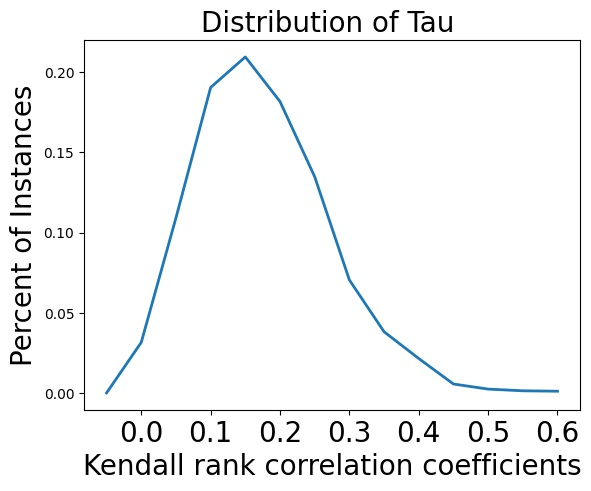
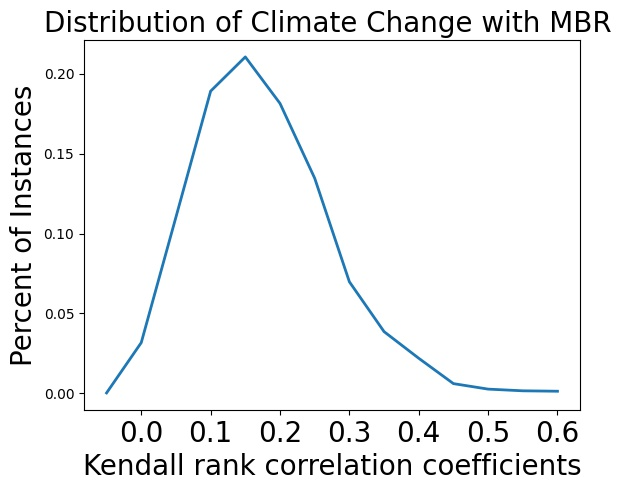
result

Changed region(s): [[0.0, 0.0, 1.0, 0.9776], [0.0, 0.4582, 0.0609, 0.5499], [0.0, 0.5499, 0.0305, 0.5804]]

diff --git a/program/run_function.py b/program/run_function.py
@@ -252,23 +252,7 @@ def label_score_analysis(
     ground_truth: str
 ) -> Dict:
     data_map = BaselineArticleMap()
-<<<<<<< HEAD
-    ground_truth_distance_matrix = np.zeros(shape=(len(data_map.dataset_bias),len(data_map.dataset_bias)),dtype=np.float32)
-    bias_distance_matrix = np.zeros(shape=(len(data_map.dataset_bias),len(data_map.dataset_bias)))
-    allsides_distance_order_matrix = np.zeros(shape=(len(data_map.dataset_bias),len(data_map.dataset_bias)),dtype=np.int)
-    for i,media_a in enumerate(data_map.dataset_list):
-        temp_distance = list()
-        for j,media_b in enumerate(data_map.dataset_list):
-            bias_distance_matrix[i][j] = abs(data_map.dataset_bias[media_a] - data_map.dataset_bias[media_b])
-            temp_distance.append(abs(data_map.dataset_bias[media_a] - data_map.dataset_bias[media_b]))
-            ground_truth_distance_matrix[i][j] = abs(data_map.dataset_bias[media_a] - data_map.dataset_bias[media_b])
-        distance_set = set(temp_distance)
-        distance_set = sorted(list(distance_set))
-        for o, d_o in enumerate(distance_set):
-            for j,d_j in enumerate(temp_distance):
-                if d_o == d_j:
-                    allsides_distance_order_matrix[i][j] = o
-=======
+
     ground_truth_distance_order_matrix = np.zeros(shape=(len(data_map.dataset_bias),len(data_map.dataset_bias)),dtype=np.int)
     if ground_truth == "MBR":
         ground_truth_distance_matrix = np.zeros(shape=(len(data_map.dataset_bias),len(data_map.dataset_bias)),dtype=np.float32)
@@ -297,7 +281,6 @@ def label_score_analysis(
                 for j,d_j in enumerate(temp_distance):
                     if d_o == d_j:
                         ground_truth_distance_order_matrix[i][j] = o
->>>>>>> 275ecfefe8664a60ff8fe75eb19166375f08ee27
                     
 
 
@@ -546,7 +529,26 @@ def label_score_analysis(
         sort_result_file = os.path.join(result_path, analysis_args.analysis_encode_method +'_sort_'+ground_truth+'.json')
 
         sentence_result_file = os.path.join(result_path, analysis_args.analysis_encode_method +'_sentence_'+ground_truth+'.json')
-        plt.title('Distribution of Tau ', fontsize=20)
+        g = ""
+        if ground_truth == 'source':
+            g = 'SoA-s'
+        elif ground_truth == 'trust':
+            g = 'SoA-t'
+        else:
+            g = 'MBR'
+
+        d = ""
+        if data_args.dataset == "climate-change":
+            d = "Climate Change"
+        elif data_args.dataset == "corporate-tax":
+            d = "Corporate Tax"
+        elif data_args.dataset == "drug-policy":
+            d = "Drug Policy"
+        elif data_args.dataset == "gay-marriage":
+            d = "Gay Marriage"
+        elif data_args.dataset == "obamacare":
+            d = "Obamacare"
+        plt.title('Distribution of {} with {} '.format(d,g), fontsize=20)
         plt_file = os.path.join(result_path, data_args.dataset+'_'+analysis_args.analysis_encode_method +'_distribution_'+ground_truth+'.jpg')
         plt.plot(x_list[start_index:end_index+1], distribution[start_index:end_index+1],linewidth=2)
         plt.xticks(fontsize=20)
